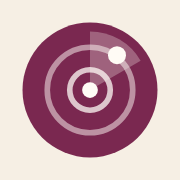
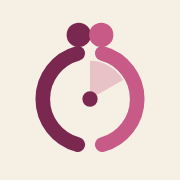
New mark and a map share card
The mark is two dancers in an embrace whose bodies close into a radar ring, with a sweep inside; it switches to
light colours on dark browser tabs. The share card shows the festivals coming up on a map of Europe, with lines
from Bergen, and says you can pick one that fits your budget.

diff --git a/design/share-card.html b/design/share-card.html
@@ -1,41 +1,44 @@
-<!doctype html>
-<html lang="en">
-<head>
-<meta charset="utf-8">
-<link rel="stylesheet" href="https://fonts.googleapis.com/css2?family=Inter:wght@400;500;650&family=Caveat:wght@700&display=block">
-<style>
-  html, body { margin: 0; }
-  body { width: 1200px; height: 630px; background: #f6efe4; color: #2a1f22; font-family: Inter, sans-serif;
-         position: relative; overflow: hidden; }
-  .rings { position: absolute; right: -170px; top: 50%; transform: translateY(-50%); width: 760px; height: 760px; }
-  .brand { position: absolute; left: 88px; top: 72px; display: flex; align-items: center; gap: 16px;
-           font-size: 34px; font-weight: 650; letter-spacing: -.015em; }
-  .brand img { width: 52px; height: 52px; }
-  h1 { position: absolute; left: 88px; top: 200px; width: 760px; margin: 0; font-size: 70px; line-height: 1.12;
-       font-weight: 500; letter-spacing: -.025em; }
-  .dance { font: 700 1.32em/1 Caveat, cursive; color: #7a2850; letter-spacing: 0; }
-  p { position: absolute; left: 88px; top: 430px; width: 640px; margin: 0; font-size: 32px; line-height: 1.35; color: #6d5f55; }
-  p b { color: #2a1f22; font-weight: 500; }
-</style>
-</head>
-<body>
-<svg class="rings" viewBox="0 0 760 760" aria-hidden="true">
-  <g fill="none" stroke="#7a2850">
-    <circle cx="380" cy="380" r="370" opacity=".07" stroke-width="2"/>
-    <circle cx="380" cy="380" r="280" opacity=".10" stroke-width="2"/>
-    <circle cx="380" cy="380" r="190" opacity=".14" stroke-width="2"/>
-    <circle cx="380" cy="380" r="100" opacity=".18" stroke-width="2"/>
-  </g>
-  <path d="M380 380 L380 10 A370 370 0 0 1 700 195 Z" fill="#7a2850" opacity=".06"/>
-  <g fill="#7a2850">
-    <circle cx="380" cy="380" r="9"/>
-    <circle cx="560" cy="150" r="13" opacity=".85"/>
-    <circle cx="250" cy="200" r="9" opacity=".5"/>
-    <circle cx="610" cy="470" r="10" opacity=".6"/>
-  </g>
-</svg>
+<!doctype html><html><head><meta charset="utf-8"><link rel="stylesheet" href="https://fonts.googleapis.com/css2?family=Inter:wght@400;500;650&family=Caveat:wght@700&display=block">
+<script src="https://cdn.jsdelivr.net/npm/topojson-client@3.1.0/dist/topojson-client.min.js"></script>
+<style>html,body{margin:0}body{width:1200px;height:630px;position:relative;overflow:hidden;font-family:Inter,sans-serif;background:#e9e4da;color:#2a1f22}
+.dance{font:700 1.32em/1 Caveat,cursive;letter-spacing:0;color:#7a2850}
+svg{position:absolute;inset:0}
+.panel{position:absolute;left:0;top:0;bottom:0;width:680px;background:linear-gradient(90deg,#f6efe4 80%,#f6efe400)}
+.brand{position:absolute;left:80px;top:70px;display:flex;align-items:center;gap:16px;font-size:34px;font-weight:650;letter-spacing:-.015em}
+.brand img{width:52px;height:52px}
+h1{position:absolute;left:80px;top:188px;width:520px;margin:0;font-size:60px;line-height:1.12;font-weight:500;letter-spacing:-.025em}
+.sub{position:absolute;left:80px;top:404px;width:470px;margin:0;font-size:27px;line-height:1.35;color:#6d5f55}
+</style></head><body>
+<svg viewBox="0 0 1200 630" id="m"></svg>
+<div class="panel"></div>
 <div class="brand"><img src="../docs/icon.svg" alt="">Kiz Radar</div>
 <h1>I want to go to a <span class="dance">Kizomba</span> festival…</h1>
-<p><b>Kizomba, Urban Kiz &amp; Tarraxo festivals</b> worth flying to from Bergen</p>
-</body>
-</html>
+<p class="sub">Pick a festival that fits your budget: every one coming up, with the flight price from Bergen</p>
+<script>
+const PLACES = window.PLACES;      // [lat, lon, festivals] per city, set by design/render.cjs
+// Mercator, fitted so Europe sits right of the text
+const lon0 = -47, lon1 = 35, lat1 = 63.2, W = 1200;
+const Y = la => Math.log(Math.tan(Math.PI / 4 + la * Math.PI / 360));
+const k = W / ((lon1 - lon0) * Math.PI / 180);
+const px = (lo, la) => [(lo - lon0) * Math.PI / 180 * k, (Y(lat1) - Y(la)) * k];
+const svg = document.getElementById('m'), NS = 'http://www.w3.org/2000/svg';
+const el = (t, a) => { const e = document.createElementNS(NS, t); for (const k in a) e.setAttribute(k, a[k]); svg.append(e); return e; };
+window.ready = fetch('https://cdn.jsdelivr.net/npm/world-atlas@2.0.2/countries-50m.json').then(r => r.json()).then(topo => {
+  const land = topojson.feature(topo, topo.objects.countries);
+  let d = '';
+  for (const f of land.features) {
+    const polys = f.geometry.type === 'Polygon' ? [f.geometry.coordinates] : f.geometry.coordinates;
+    for (const poly of polys) for (const ring of poly) {
+      if (ring.every(([lo]) => lo < lon0 - 20 || lo > lon1 + 40)) continue;
+      d += 'M' + ring.map(([lo, la]) => px(lo, la).map(v => v.toFixed(1)).join(',')).join('L') + 'Z';
+    }
+  }
+  el('path', { d, fill: '#fdf9f2', stroke: '#d5c7b2', 'stroke-width': 1 });
+  const [bx, by] = px(5.22, 60.29);
+  for (const [la, lo, n] of PLACES) { const [x, y] = px(lo, la); el('line', { x1: bx, y1: by, x2: x, y2: y, stroke: '#7a2850', 'stroke-opacity': .07, 'stroke-width': 1 }); }
+  for (const [la, lo, n] of [...PLACES].sort((a, b) => b[2] - a[2])) { const [x, y] = px(lo, la);
+    el('circle', { cx: x, cy: y, r: Math.min(4 + 2.6 * n, 18), fill: '#7a2850', 'fill-opacity': .6, stroke: '#fffbf5', 'stroke-width': 1.5 }); }
+  el('circle', { cx: bx, cy: by, r: 8, fill: '#2a1f22', stroke: '#fffbf5', 'stroke-width': 3 });
+  const t = el('text', { x: bx + 14, y: by - 10, 'font-size': 22, 'font-weight': 600, fill: '#2a1f22' }); t.textContent = 'Bergen';
+});
+</script></body></html>

diff --git a/docs/index.html b/docs/index.html
@@ -20,7 +20,7 @@
 <meta property="og:image" content="https://clombion.github.io/kiz-radar/share-card.png">
 <meta property="og:image:width" content="1200">
 <meta property="og:image:height" content="630">
-<meta property="og:image:alt" content="Kiz Radar: “I want to go to a Kizomba festival…”, festivals worth flying to from Bergen">
+<meta property="og:image:alt" content="Kiz Radar: “I want to go to a Kizomba festival…”, beside a map of Europe with the festivals coming up and lines from Bergen to each">
 <meta name="twitter:card" content="summary_large_image">
 <link rel="stylesheet" href="https://cdnjs.cloudflare.com/ajax/libs/leaflet/1.9.4/leaflet.min.css">
 <link rel="stylesheet" href="css/site.css">

diff --git a/README.md b/README.md
@@ -28,8 +28,10 @@ Beyond the festival list, the site has three ways to explore:
 The footer links to an SQL page for querying the whole database.
 
 A shared link shows a preview card, `docs/share-card.png`, and the site has icons for browser tabs, bookmarks
-and phone home screens. The card is drawn from `design/share-card.html` and the icon from `docs/icon.svg`; after
-changing either, `NODE_PATH="$(npm root -g)" node design/render.cjs` redraws the PNGs (it needs Playwright).
+and phone home screens. The card is drawn from `design/share-card.html`, with a map of the festivals coming up taken from the
+site database, and the icon from `docs/icon.svg`. The icon shows two dancers in an embrace, their bodies closing
+into a radar ring, and it switches colours on dark browser tabs. To redraw the PNGs after changing either, or to
+bring the card's map up to date, run `NODE_PATH="$(npm root -g)" node design/render.cjs` (it needs Playwright).
 
 ## Where the data comes from
 
